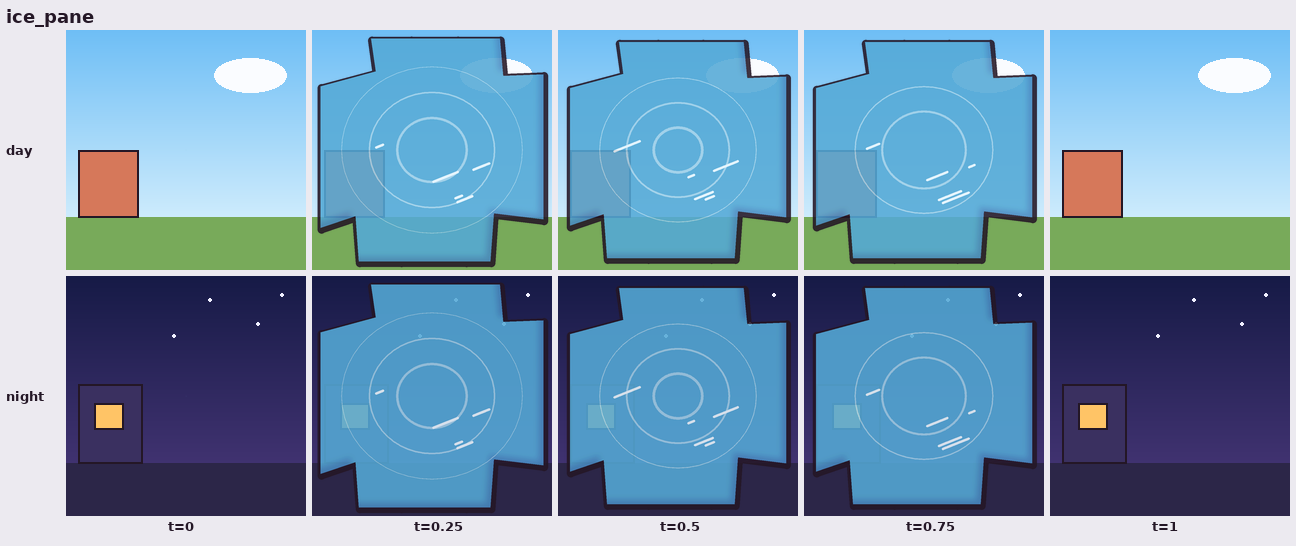
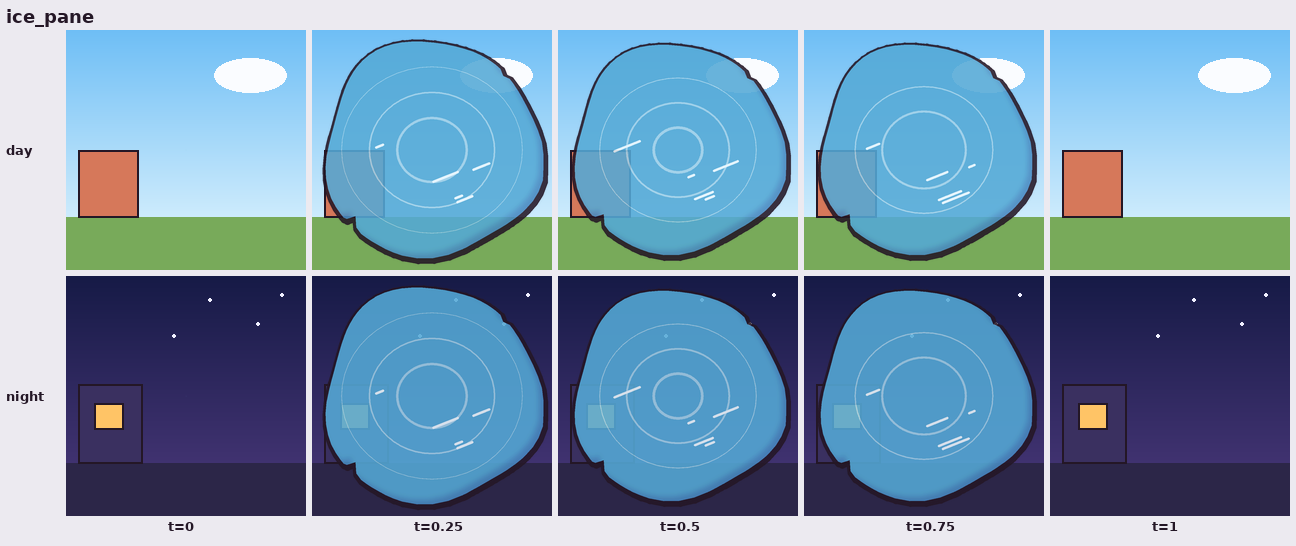
characters: seated legs down the cooler front, one-side paddle grip, plum headband with thicker springs, Gary held from below; sprites: sign halves fall asymmetrically; fx catalog variants

diff --git a/characters/scripts/bean.py b/characters/scripts/bean.py
@@ -124,7 +124,7 @@ def character(build='adult', skin='#ffe2c2', shirt='#f08a2c', pants='#3b5b9a', e
     leg_c = mix(pants_c, INK, 0.55)
     hip_y = torso_bot - 0.12 * HH
     if seated:
-        if seated == 'cooler': draw_cooler(C, cx, seat_top(build), 975, Ta * 2.5, u)
+        if seated == 'cooler': draw_cooler(C, cx, seat_top(build), 975, Ta * 2.15, u)
         seat_legs(C, cx, hip_y, torso_bot, u, leg_c, facing)
     else:
       for sgn in (-1, 1):
@@ -142,8 +142,8 @@ def character(build='adult', skin='#ffe2c2', shirt='#f08a2c', pants='#3b5b9a', e
         if pose == 'hold' and hp:      # new held props: shown off the belly, the dot hand visibly on the grip
             if both_hold and hp in held.TWO_HANDED:     # hands just inside the prop's two edges, at chest height
                 if hp == 'frying_pan':                   # a paddle: top hand high, bottom hand low, blade out to the side
-                    hd = (cx - 0.25 * Ta, sh_y + 0.22 * HH) if sgn < 0 else (cx + 0.75 * Ta, sh_y + 0.56 * HH)
-                    el = (cx + sgn * (1.1 * Ta + 6 * u), sh_y + (0.42 if sgn < 0 else 0.5) * HH)
+                    hd = (cx + 0.3 * Ta, sh_y + 0.26 * HH) if sgn < 0 else (cx + 1.12 * Ta, sh_y + 0.6 * HH)
+                    el = (cx - 0.95 * Ta, sh_y + 0.42 * HH) if sgn < 0 else (cx + 1.25 * Ta + 8 * u, sh_y + 0.36 * HH)
                     return [s0, el, hd]
                 hd = (cx + sgn * held.two_halfwidth(hp) * u, sh_y + 0.40 * HH)
                 el = (cx + sgn * max(1.12 * Ta + 4 * u, abs(hd[0] - cx) + 10 * u), sh_y + 0.50 * HH)
@@ -215,9 +215,6 @@ def character(build='adult', skin='#ffe2c2', shirt='#f08a2c', pants='#3b5b9a', e
                 for sg in (-1, 1): dd.polygon([P(cx, chin + 6 * u), P(cx + sg * 0.5 * Ta, chin - 4 * u), P(cx + sg * 0.35 * Ta, chin + 12 * u)], fill=col)
     C.clip_layer(clothes, torso)
     C.outline(torso, cx, tcy, w0)
-    if seated:   # knees poking forward over the seat edge, in front of the belly: reads as sitting, not stacking
-        from ink import stamp as _stamp
-        _stamp(C, [('e', cx + sg * 30 * u, torso_bot + 1 * u, 7.5 * u, 6 * u, leg_c) for sg in (-1, 1)], 0.55 * w0)
     # ---- head
     head_col = hexrgb('#fbf8f4') if white_head else skin_c
     C.fill_shaded(head, head_col, head_sh, 0.30 * a, 0.09 * a, cx, hy)
@@ -411,17 +408,17 @@ def draw_prop(C, kind, hand, u, side=1, two=None):
 def seat_top(build='adult'):
     """Card y of the seat top for seated= (the lid of the cooler); soles stay at y=975."""
     B = BUILDS[build]; HH = 2 * B['b']
-    return 975 - 0.55 * B['legs'] * HH
+    return 975 - 0.44 * B['legs'] * HH
 
 def seat_drop(build='adult'):
     B = BUILDS[build]; HH = 2 * B['b']
-    return (seat_top(build) + 0.04 * HH) - (975 - B['legs'] * HH)
+    return (seat_top(build) - 0.01 * HH) - (975 - B['legs'] * HH)
 
 def seat_legs(C, cx, hip_y, torso_bot, u, leg_c, facing=0.0):
     """Front-view sitting: thighs point at the camera (foreshortened under the torso), knees out, shins straight down."""
-    for sgn in (-1, 1):
-        hip = (cx + sgn * 15 * u, hip_y); kn = (cx + sgn * 30 * u, torso_bot); ft = (cx + sgn * 30 * u, 975 - 3.5 * u)
-        path = bow(hip, kn, sgn * 1 * u, 8) + bow(kn, ft, -sgn * 1.5 * u, 12)[1:]
+    for sgn in (-1, 1):   # thighs angle out from under the belly to knees on the seat's front edge, shins hang down it
+        hip = (cx + sgn * 14 * u, hip_y); kn = (cx + sgn * 33 * u, torso_bot + 18 * u); ft = (cx + sgn * 35 * u, 975 - 3.5 * u)
+        path = bow(hip, kn, -sgn * 2 * u, 10) + bow(kn, ft, sgn * 1.5 * u, 12)[1:]
         C.stroke(path, 5.8 * u, leg_c)
         C.stroke([ft, (ft[0] + sgn * 12 * u + facing * 8 * u, ft[1] + 0.5 * u)], 7.5 * u, INK)
 
@@ -453,7 +450,7 @@ def draw_antennae(C, col, cx, hy, a, b, u, w0, facing, rot, rear, antennae='up',
     from ink import stamp
     droop = {'up': 0.0, 'droop': 1.0, None: 0.0}.get(antennae, antennae)
     droop = max(0.0, min(1.0, float(droop)))
-    dk = mul(col, (0.62, 0.62, 0.7)); stalk = mix(col, INK, 0.6)
+    dk = (74, 58, 88); stalk = mix(col, INK, 0.6)     # a dark plum band: the green balls pop, and it never matches a green cap
     base_y = hy - 0.48 * b; f = facing if abs(facing) >= 1 else facing * 0.5
     def hw(y):   # half-width of the skull at height y (crown exponent 1.75)
         t = min(1.0, abs((y - hy) / b)); return a * (1 - t ** 1.75) ** (1 / 1.75)
@@ -483,14 +480,14 @@ def draw_antennae(C, col, cx, hy, a, b, u, w0, facing, rot, rear, antennae='up',
             L = math.hypot(dx, dy) or 1
             amp = 4.2 * u * math.sin(math.pi * min(1, t * 1.25)) * (1 - 0.6 * droop)     # the spring coil, slacker when drooping
             wob = amp * math.sin(t * 2 * math.pi * 4.5)
-            pts.append((x - dy / L * wob, y + dx / L * wob, 3.4 * u))
-        rb = 0.17 * a
+            pts.append((x - dy / L * wob, y + dx / L * wob, 4.2 * u))
+        rb = 0.2 * a
         parts.append((pts, tip, rb))
     for pts, tip, rb in parts:
         stamp(C, [('s', pts, stalk), ('e', tip[0], tip[1], rb, rb * (1 - 0.1 * droop), col)], 0.7 * w0,
               details=[('c', tip[0] - rb * 0.38, tip[1] - rb * 0.4, rb * 0.22, mix(col, (255, 255, 255), 0.55))])
-    stamp(C, [('p', band, dk)] + [('e', p_[0][0], p_[0][1] + 1 * u, 0.09 * a, 0.07 * a, dk) for p_, _t, _r in parts], 0.8 * w0,
-          details=[('s', [(x, y + 2.2 * u, 1.6 * u) for x, y in top[2:-2]], mix(col, (255, 255, 255), 0.25))])   # band + spring sockets, a lit top rim
+    stamp(C, [('p', band, dk)] + [('e', p_[0][0], p_[0][1] + 1 * u, 0.1 * a, 0.08 * a, mul(col, (0.7, 0.7, 0.75))) for p_, _t, _r in parts], 0.8 * w0,
+          details=[('s', [(x, y + 2.2 * u, 1.6 * u) for x, y in top[2:-2]], (128, 108, 146))])   # band + spring sockets, a lit top rim
 
 if __name__ == '__main__':
     import sys

diff --git a/characters/scripts/held.py b/characters/scripts/held.py
@@ -44,8 +44,8 @@ def screwdriver(C, x, y, u, d, two, e):
 
 def googly_eyes(C, x, y, u, d, two, e):
     r = 13 * u
-    s1, d1 = googly(x - d * 6 * u, y - 12 * u, r, look=(-0.6, 0.6))
-    s2, d2 = googly(x + d * 20 * u, y - 22 * u, r, look=(0.7, -0.5))
+    s1, d1 = googly(x - d * 4 * u, y - 19 * u, r, look=(-0.6, 0.6))
+    s2, d2 = googly(x + d * 22 * u, y - 30 * u, r, look=(0.7, -0.5))
     stamp(C, [s1, s2], e * 0.8, details=[d1, d2], shade=True)
 
 
@@ -93,8 +93,6 @@ def cash_fan(C, x, y, u, d, two, e):
         r = math.radians(a); cx, cy = x + math.cos(r) * 24 * u, y + math.sin(r) * 24 * u
         stamp(C, [('p', rpoly(cx, cy, 44 * u, 20 * u, 1.5 * u, ang=a), GREEN)], e * 0.7,
               details=[('p', rpoly(cx, cy, 34 * u, 12 * u, 1 * u, ang=a), (88, 160, 84)), ('c', *fx.rot(cx + 9 * u, cy, cx, cy, a), 4.5 * u, (170, 225, 160))])
-        tx, ty = fx.rot(cx + 9 * u, cy, cx, cy, a)
-        text(C, tx, ty, '$', 6 * u, (40, 100, 44), rot=-a)
     C.dot(x, y, 5.5 * u)
 
 
@@ -154,10 +152,10 @@ def megaphone(C, x, y, u, d, two, e):
 def flag(C, x, y, u, d, two, e, label=''):
     dd = d or 1
     top = (x + dd * 4 * u, y - 150 * u)
-    fl = [(top[0], top[1] + 2 * u), (top[0] + dd * 62 * u, top[1] + 20 * u), (top[0], top[1] + 40 * u)]   # the pennant flies over the head side
+    fl = [(top[0], top[1] + 2 * u), (top[0] + dd * 40 * u, top[1] + 15 * u), (top[0], top[1] + 30 * u)]   # the pennant flies over the head side
     stamp(C, [('s', [(x - dd * 1 * u, y + 12 * u, 5 * u), (top[0], top[1], 5 * u)], (122, 84, 50)),
               ('p', fl, (60, 190, 210)), ('c', top[0], top[1] - 2 * u, 4.5 * u, YEL)], e * 0.85)
-    if label: text(C, top[0] + dd * 24 * u, top[1] + 18 * u, label, 8 * u, (255, 255, 255), maxw=38 * u, rot=-dd * 13)
+    if label: text(C, top[0] + dd * 15 * u, top[1] + 15 * u, label, 6 * u, (255, 255, 255), maxw=24 * u, rot=-dd * 18)
 
 
 def air_hockey_mallet(C, x, y, u, d, two, e):
@@ -168,8 +166,8 @@ def air_hockey_mallet(C, x, y, u, d, two, e):
 
 
 def gary_rock(C, x, y, u, d, two, e, askew=False):
-    cx, cy = (x, y - 4 * u) if two else (x + d * 14 * u, y - 24 * u)
     rx, ry = 40 * u, 29 * u
+    cx, cy = (x, y - ry * 0.55) if two else (x + d * 14 * u, y - 24 * u)   # two hands under its lower flanks
     s1, d1 = googly(cx - 11 * u, cy - 8 * u, 9 * u, look=(0.2, 0.5))
     s2, d2 = googly(cx + 13 * u, cy - (14 if askew else 8) * u, (8 if askew else 9) * u, look=((0.8, -0.6) if askew else (0.2, 0.5)))
     stamp(C, [('p', rock_pts(cx, cy, rx, ry, seed=7, flat=0.2), ROCK)], e,
@@ -183,7 +181,7 @@ NAMES = {'mug': mug, 'gps_box': gps_box, 'screwdriver': screwdriver, 'googly_eye
          'air_hockey_mallet': air_hockey_mallet, 'gary_rock': gary_rock}
 TWO_HANDED = {'gps_box', 'laptop', 'frying_pan', 'camera', 'phone', 'gary_rock'}   # centred between the hands
 K = 1.25                                    # props read big (video size), like the reference
-TWO_W = dict(gps_box=30, laptop=38, frying_pan=20, camera=23, phone=22, gary_rock=37)   # the hands clamp the side edges   # hands sit on the fill, inside the edge   # half-width at the grip (u)
+TWO_W = dict(gps_box=30, laptop=38, frying_pan=20, camera=23, phone=22, gary_rock=33)   # the hands clamp the side edges   # hands sit on the fill, inside the edge   # half-width at the grip (u)
 
 
 def two_halfwidth(base): return TWO_W.get(base, 26) * K

diff --git a/characters/scripts/sprites.py b/characters/scripts/sprites.py
@@ -135,7 +135,8 @@ def tent_floating(t=0.0, k=1.0, color='#f28c34', **kw):
     _tent_card(C, 210, 260 + dy, a, bean.hexrgb(color))
     wl = 268                                     # muddy water hiding the tent's foot, with a wave and spray
     wave = [(210 - 200 + 400 * i / 30, wl + 8 * math.sin(i * 0.9 + t * 20)) for i in range(31)]
-    stamp(C, [('p', wave + [(410, 318), (10, 318)], (138, 104, 66))], E,
+    wave = [(x, y - 14) for x, y in wave]
+    stamp(C, [('p', wave + [(410, 318), (10, 318)], (112, 84, 54))], E,
           details=[('s', [(x, y + 10, 5) for x, y in wave[2:-2]], (246, 240, 226))])
     for i, dx in enumerate((-150, 150)):
         g = 0.5 + 0.5 * math.sin(t * 2 * math.pi * 3 + i * 2)
@@ -210,9 +211,12 @@ def tour_sign_free(t=0.0, k=1.0, text_='ALIEN ROCK TOURS|NIGHT ONLY', **kw):
         edge = Image.new('RGBA', full.size, (0, 0, 0, 0)); ImageDraw.Draw(edge).line([(x * S, y * S) for x, y in crack], fill=INK + (255,), width=int(9 * S))
         edge.putalpha(ImageChops.multiply(edge.getchannel('A'), ImageChops.multiply(full.getchannel('A'), mask)))
         h.alpha_composite(edge); halves.append((side, h))
-    f = seg(t, 0.3, 0.78)
-    ang = 86 * f * f                                     # gravity: accelerates, lands at 86 deg
-    if t > 0.78: ang = 86 - 7 * bump(seg(t, 0.78, 0.9)) - 2 * bump(seg(t, 0.9, 0.97))   # bounce on landing
+    def fall(side):        # the right half goes first and lands flatter; the left one lags and lands steeper
+        d0, land = (0.3, 86) if side > 0 else (0.36, 74)
+        f = seg(t, d0, d0 + 0.44); a = land * f * f
+        if t > d0 + 0.44: a = land - 7 * bump(seg(t, d0 + 0.44, d0 + 0.54)) - 2 * bump(seg(t, d0 + 0.54, d0 + 0.6))
+        return a
+    ang = fall(1)
     if t > 0.76:     # a dust puff where each half lands (behind the boards)
         g = bump(seg(t, 0.76, 1.0))
         for side in (-1, 1):
@@ -221,7 +225,8 @@ def tour_sign_free(t=0.0, k=1.0, text_='ALIEN ROCK TOURS|NIGHT ONLY', **kw):
     lift = 98 * math.sin(math.radians(ang))     # a falling half ends up resting on its board edge, not in the ground
     for side, h in halves:
         px, py = cx + side * 0.3 * 440, gy
-        r = h.rotate(-side * ang, resample=Image.BICUBIC, center=(px * S, py * S), translate=(0, -lift * S))
+        a_ = fall(side); lift = 98 * math.sin(math.radians(a_))
+        r = h.rotate(-side * a_, resample=Image.BICUBIC, center=(px * S, py * S), translate=(0, -lift * S))
         out.im.alpha_composite(r)
     return out.out(k, (cx, gy))
 

diff --git a/fx/scripts/catalog.py b/fx/scripts/catalog.py
@@ -60,7 +60,13 @@ def strip(name, ts=TS, size=TILE, **kw):
 
 
 VARIANTS = {'steer_arrow_blocked': ('steer_arrow', {'direction': 'blocked'}),
-            'path_line_kink': ('path_line', {'planned': 'tight_left', 'actual': 'kink_right_then_left'})}
+            'path_line_kink': ('path_line', {'planned': 'tight_left', 'actual': 'kink_right_then_left'}),
+            'ice_pane_freeze': ('ice_pane', {'stage': 'freeze'}), 'ice_pane_panes': ('ice_pane', {'stage': 'panes'}),
+            'ice_pane_drift': ('ice_pane', {'stage': 'drift', 'direction': 'right'}),
+            'ice_pane_side': ('ice_pane', {'stage': 'drift', 'view': 'side'}),
+            'sliding_rock_away5': ('sliding_rock', {'count': 5, 'path': 'away'}),
+            'sliding_rock_fridge': ('sliding_rock', {'sprite': 'fridge', 'path': [[0.25, 0.6], [0.75, 0.55]]}),
+            'year_badge_long': ('year_badge', {'label': 'YEAR 2 · LAST TRY'})}
 
 
 def checks(name, frames=60, size=200):

diff --git a/characters/scripts/v2_sheet.py b/characters/scripts/v2_sheet.py
@@ -48,5 +48,5 @@ if __name__ == '__main__':
     if len(sys.argv) > 2:   # 2x-ish crops of the upper bodies (heads, hands, props) for the joint review
         cs = Image.new("RGBA", (600 * 8, 640 * 4), (240, 237, 230, 255))
         for k, im in enumerate(full):
-            cs.alpha_composite(im.crop((0, 120, 600, 760)), ((k % 8) * 600, (k // 8) * 640))
+            cs.alpha_composite(im.crop((0, 40, 600, 680)), ((k % 8) * 600, (k // 8) * 640))
         cs.save(sys.argv[2])
